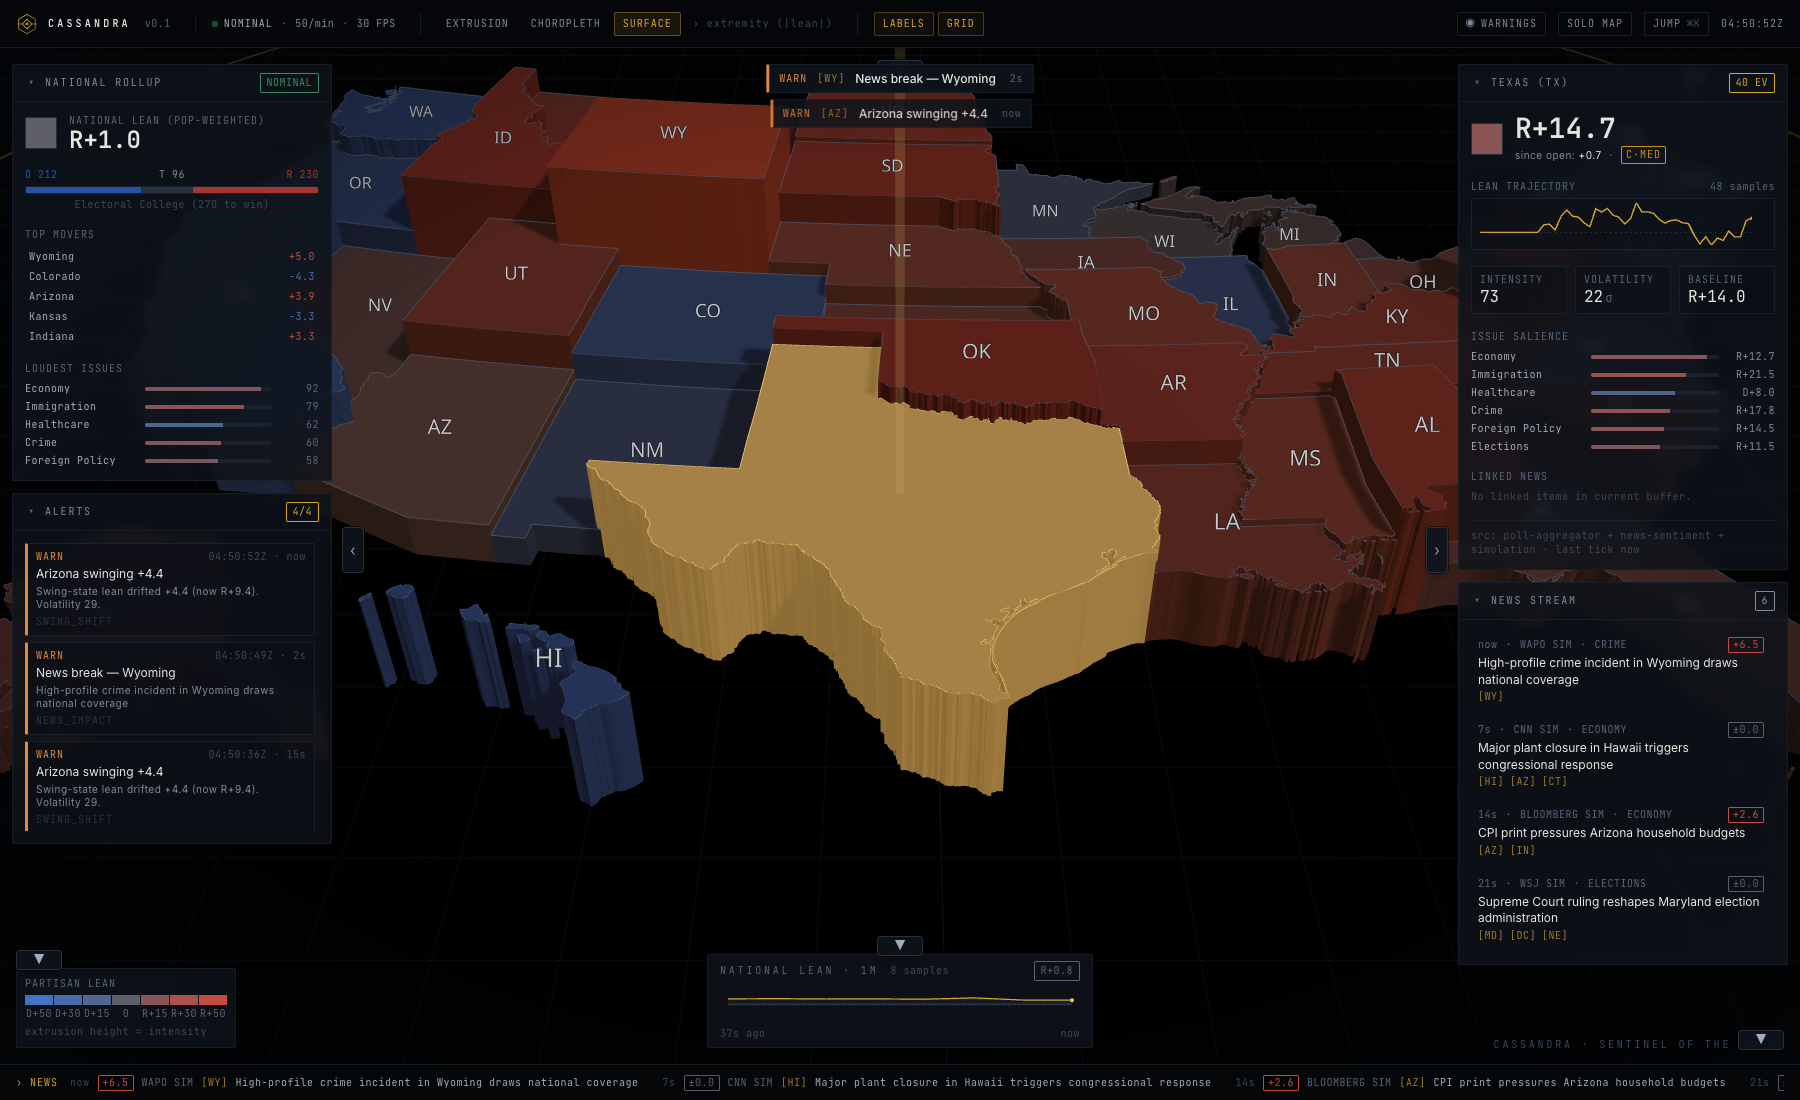
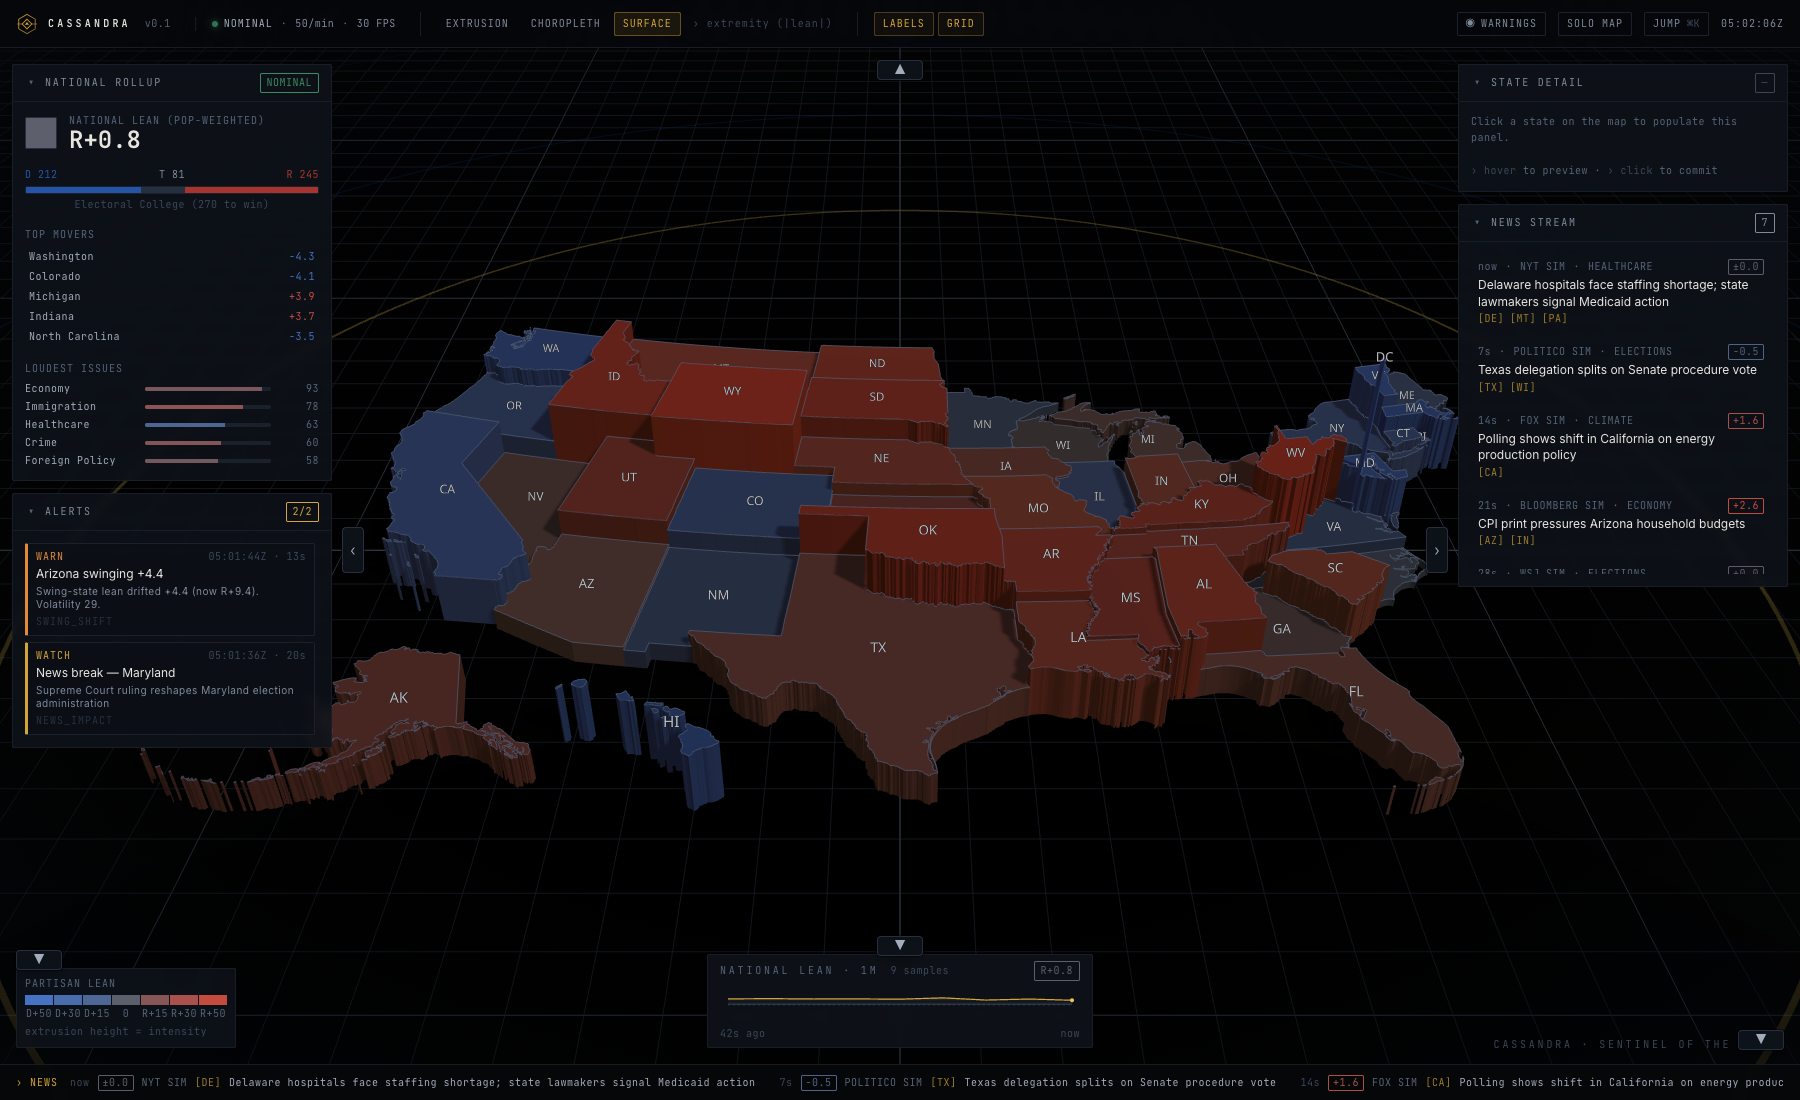
fix grid visibility, re-shoot cinematic hero, strip Palantir framing
- GridPlane: two-layer reference grid (80x80 minor + 80x8 major
  quadrants), opacity raised to 0.55/0.42, brighter line colors.
  Toggling GRID is now obviously visible against the void.
- TopBar: title tooltips on LABELS and GRID buttons so the affordance
  is discoverable without trial-and-click.
- docs/screenshots: re-captured the whole gallery with NO state selected.
  Hero is now an ultra-wide 2560x1100 SOLO MAP cinematic. Two new shots
  (07-grid-off / 08-grid-on) show the GRID toggle effect side-by-side.
- README: removed Palantir/Gotham phrasing — the project speaks in its
  own voice. New grid-toggle section. Hero swapped to the cinematic shot.

🤖 Generated with [Claude Code](https://claude.com/claude-code)

diff --git a/src/components/map/GridPlane.tsx b/src/components/map/GridPlane.tsx
@@ -6,21 +6,33 @@ import { useAppStore } from '@/store/app-store';
 
 /**
  * The stage under the country.
- * - Dark "void" floor with subtle radial vignette texture
- * - Faint orthogonal grid sitting just above the floor (toggleable)
- * - Two reticule rings (gold inner, dem-blue outer) — calibration marks
+ * - Dark "void" floor with a subtle radial vignette texture
+ * - Two-layer grid (minor + major) toggleable via the GRID button in the top
+ *   bar — bright enough to be obviously visible/invisible
+ * - Reticule rings + cardinal tick marks for distance calibration
  */
 export function GridPlane() {
   const showGrid = useAppStore(s => s.showGrid);
 
-  const gridHelper = useMemo(() => {
-    const grid = new THREE.GridHelper(80, 80, '#1c2531', '#11181f');
+  // Minor grid: 80×80 fine cells, dim
+  const minorGrid = useMemo(() => {
+    const grid = new THREE.GridHelper(80, 80, '#3a4658', '#1f2734');
     (grid.material as THREE.Material).transparent = true;
-    (grid.material as THREE.Material).opacity = 0.42;
-    grid.position.y = -0.008;
+    (grid.material as THREE.Material).opacity = 0.55;
+    grid.position.y = -0.005;
     return grid;
   }, []);
 
+  // Major grid: 80×8 coarse cells, brighter — gives a clear "quadrant" feel
+  const majorGrid = useMemo(() => {
+    const grid = new THREE.GridHelper(80, 8, '#6b7488', '#454f63');
+    (grid.material as THREE.Material).transparent = true;
+    (grid.material as THREE.Material).opacity = 0.42;
+    grid.position.y = -0.004;
+    return grid;
+  }, []);
+
+  // Radial-gradient floor texture (drawn once into a canvas).
   const floorTexture = useMemo(() => {
     if (typeof document === 'undefined') return null;
     const size = 512;
@@ -51,7 +63,12 @@ export function GridPlane() {
         />
       </mesh>
 
-      {showGrid && <primitive object={gridHelper} />}
+      {showGrid && (
+        <>
+          <primitive object={minorGrid} />
+          <primitive object={majorGrid} />
+        </>
+      )}
 
       {/* Inner gold reticule */}
       <mesh rotation={[-Math.PI / 2, 0, 0]} position={[0, 0.002, 0]}>

diff --git a/src/components/layout/TopBar.tsx b/src/components/layout/TopBar.tsx
@@ -92,6 +92,7 @@ export function TopBar() {
       <div className="flex items-center gap-1 pl-4 border-l border-slate-800/80">
         <button
           onClick={() => setShowLabels(!showLabels)}
+          title="Toggle state code labels (CA, TX, ...)"
           className={`px-2 py-1 rounded-sm tracking-widest transition-colors ${
             showLabels
               ? 'text-gold border border-gold/30 bg-gold/5'
@@ -102,6 +103,7 @@ export function TopBar() {
         </button>
         <button
           onClick={() => setShowGrid(!showGrid)}
+          title="Toggle the floor reference grid under the country"
           className={`px-2 py-1 rounded-sm tracking-widest transition-colors ${
             showGrid
               ? 'text-gold border border-gold/30 bg-gold/5'

diff --git a/src/components/map/Lighting.tsx b/src/components/map/Lighting.tsx
@@ -1,7 +1,7 @@
 'use client';
 
 /**
- * Lighting tuned for Palantir-Gotham aesthetic:
+ * Lighting tuned for the Cassandra console aesthetic:
  * - Restrained ambient so base colors read clearly
  * - One key light from upper-right with mild warm tint
  * - A cool blue rim from the back for separation

diff --git a/README.md b/README.md
@@ -1,6 +1,6 @@
 <div align="center">
 
-<img src="docs/screenshots/05-solo-map.png" alt="Cassandra — 3D US political sentiment intelligence map" width="100%" />
+<img src="docs/screenshots/01-hero.png" alt="Cassandra — 3D US political sentiment intelligence" width="100%" />
 
 # CASSANDRA
 
@@ -19,7 +19,7 @@
 
 ---
 
-Cassandra fuses **poll movement**, **news sentiment**, and **public-discourse signals** into a single geospatial picture and surfaces meaningful shifts as they happen. Built in the spirit of Palantir Gotham — high-signal, low-noise, dark-themed, information-dense. The aesthetic earns its pixels: every reticule, sigil, and glow encodes a real signal.
+Cassandra fuses **poll movement**, **news sentiment**, and **public-discourse signals** into a single geospatial picture and surfaces meaningful shifts as they happen. High-signal, low-noise, dark-themed, information-dense. The aesthetic earns its pixels: every reticule, sigil, and glow encodes a real signal.
 
 The whole pipeline runs as a single Next.js app: a deterministic simulation engine emits typed events over SSE, a Zustand store fans them out, and a `react-three-fiber` canvas updates 50 extruded state prisms imperatively at 60fps — without React re-rendering the scene.
 
@@ -27,19 +27,13 @@ The whole pipeline runs as a single Next.js app: a deterministic simulation engi
 
 ## ▾ Gallery
 
-### Hero — full HUD
+### Full HUD
 
-<img src="docs/screenshots/01-hero.png" alt="Cassandra default view with full HUD" width="100%" />
+<img src="docs/screenshots/02-default.png" alt="Cassandra default view with full HUD" width="100%" />
 
-50 states + DC as extruded prisms, color = partisan lean × intensity, height = engagement intensity. Left rail shows the national rollup (lean, EC balance, top movers, loudest issues) and Alerts Center. Right rail shows the selected state's detail and the live news stream. Bottom: national lean trajectory and rolling news ticker.
+50 states + DC as extruded prisms, color = partisan lean × intensity, height = engagement intensity. Left rail: national rollup (lean, EC balance, top movers, loudest issues) + Alerts Center. Right rail: state detail (populated on selection) + live news stream. Bottom: national lean trajectory and rolling news ticker.
 
-### Selected state — fly-to + selection beam
-
-<img src="docs/screenshots/02-selected-texas.png" alt="Camera fly-to with selection beam over Texas" width="100%" />
-
-Click a state (or ⌘K → type a name) and the camera arcs over to a 900ms easeInOutCubic fly-to. A gold beam pierces the selected state and a pulsing ring marks the centroid. The right rail populates with: lean readout, intra-session sparkline, issue salience bars, linked news, and source provenance.
-
-### Layer modes — three questions, one map
+### Three layer modes — one map, three questions
 
 <table>
   <tr>
@@ -48,30 +42,47 @@ Click a state (or ⌘K → type a name) and the camera arcs over to a 900ms ease
     <td align="center" width="33%"><strong>SURFACE</strong><br/><sub>height = political extremity</sub></td>
   </tr>
   <tr>
-    <td><img src="docs/screenshots/01-hero.png" alt="Extrusion mode" width="100%" /></td>
+    <td><img src="docs/screenshots/02b-extrusion.png" alt="Extrusion mode" width="100%" /></td>
     <td><img src="docs/screenshots/03-choropleth.png" alt="Choropleth mode" width="100%" /></td>
     <td><img src="docs/screenshots/04-surface.png" alt="Surface mode" width="100%" /></td>
   </tr>
 </table>
 
-### Solo Map mode — operator's full-screen view
+EXTRUSION answers *"where is the polity engaged?"* — height grows with intensity. CHOROPLETH answers *"how does the country lean?"* — flat color readout. SURFACE answers *"where is the polity polarized?"* — height grows with `|lean|`, so solid-red and solid-blue states rise tallest and swing states stay flat.
+
+### Solo Map — operator's full-canvas view
 
 <img src="docs/screenshots/05-solo-map.png" alt="Solo Map — full-canvas country view" width="100%" />
 
-One click on the `SOLO MAP` button in the top bar collapses every HUD panel, leaving the country to fill the canvas. Toast notifications still surface critical alerts at top-center; everything else is one chevron-click away.
+One click on `SOLO MAP` in the top bar collapses every HUD panel and leaves the country to fill the canvas. Toast notifications still surface critical alerts at top-center — silence them with the `MUTED` button. Every collapse is one chevron-click away from being restored.
+
+### Floor grid toggle — reference plane for distance
+
+<table>
+  <tr>
+    <td align="center" width="50%"><strong>GRID OFF</strong></td>
+    <td align="center" width="50%"><strong>GRID ON</strong></td>
+  </tr>
+  <tr>
+    <td><img src="docs/screenshots/07-grid-off.png" alt="Grid off" width="100%" /></td>
+    <td><img src="docs/screenshots/08-grid-on.png" alt="Grid on" width="100%" /></td>
+  </tr>
+</table>
+
+The `GRID` button in the top bar toggles a two-layer reference grid (fine 1-unit cells + bold 10-unit quadrants) on the stage floor. Off = pure void; on = calibrated reference plane.
 
 ### Jump palette — instant state targeting
 
 <img src="docs/screenshots/06-palette.png" alt="Cmd-K search palette" width="100%" />
 
-`⌘K` from anywhere opens the palette. Type a code (`PA`), name fragment (`penn`), or even a partial match — arrow keys to navigate, Enter to commit. Each row shows the live partisan lean and EV count.
+`⌘K` from anywhere opens the palette. Type a code (`PA`) or name fragment (`penn`); arrow keys to navigate, Enter to commit. Each row shows the live partisan lean and EV count. Selecting a row fires a 900ms easeInOutCubic camera fly-to and pierces the state with a gold beam.
 
 ---
 
 ## ▾ Quickstart
 
 ```bash
-git clone https://github.com/<owner>/cassandra
+git clone https://github.com/EgorKhaklin/cassandra
 cd cassandra
 npm install
 npm run dev         # http://localhost:3939
@@ -98,7 +109,7 @@ npm run build       # production bundle
 | **Honest data presentation** | Every modeled metric carries a `Confidence` tag (HIGH/MED/LOW), every news item carries a `source` (`Sim` suffix in simulation mode), and every alert names the `rule` that fired. Provenance is a first-class field in the type system. |
 | **Three views, one map** | EXTRUSION / CHOROPLETH / SURFACE answer different questions — engagement, lean, extremity — with the same geometry. The active mode's meaning is captioned in the top bar. |
 | **Collapsible HUD** | Every panel has a chevron toggle that pins to the screen edge. `SOLO MAP` collapses all panels in one click. `MUTED` silences warning toasts. Everything is reversible. |
-| **Deterministic simulation** | The engine uses a seeded PRNG (`0xC1A55ED`) so the simulation reproduces frame-for-frame across reloads for QA and demos. Live mode swaps the simulation adapter; the consumer contract is unchanged. |
+| **Deterministic simulation** | The engine uses a seeded PRNG (`0xC1A55ED`) so the simulation reproduces frame-for-frame across reloads — useful for QA and demos. Live mode swaps the simulation adapter; the consumer contract is unchanged. |
 
 ---
 
@@ -237,6 +248,7 @@ cassandra/
 - Cmd-K search palette
 - Collapsible HUD with per-panel chevron toggles + Solo Map + Mute Warnings
 - 10-minute national-lean timeline backed by a server-side ring buffer
+- Two-layer reference grid (fine + major) toggleable from the top bar
 
 **Phase 2:**
 - Time scrubber: replay last N minutes from the ring buffer
@@ -266,4 +278,4 @@ See [`docs/DATA_SOURCING.md`](docs/DATA_SOURCING.md) for the full methodology, s
 
 MIT — see [LICENSE](LICENSE).
 
-Built by [VANTA / Egor Khaklin](https://github.com/) — *the Cassandra inheritance is taken seriously.*
+Built by [VANTA / Egor Khaklin](https://github.com/EgorKhaklin) — *the Cassandra inheritance is taken seriously.*
